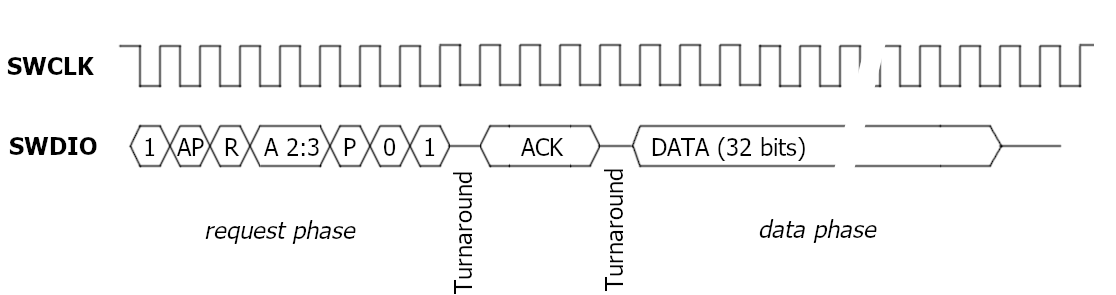
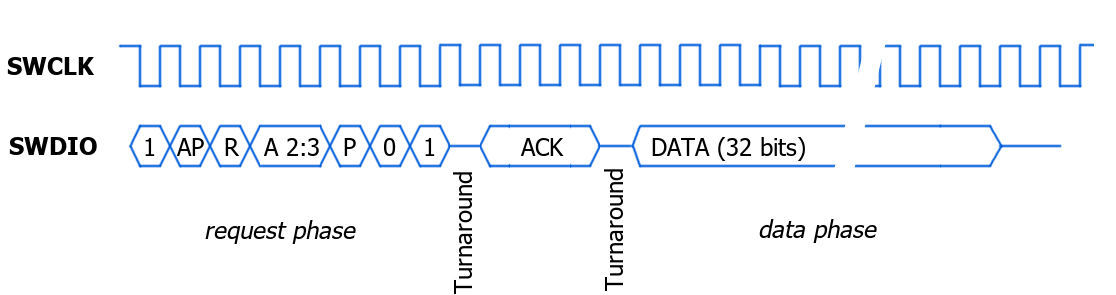
Added missing source files. Updated two pictures for the guide.

diff --git a/source/usb-support.c b/source/usb-support.c
@@ -1,0 +1,141 @@
+/*
+ * Functions for general purpose USB device access in Microsoft Windows, by
+ * dynamically loading & Linking WinUSB or libusbK. For libusbK, the native
+ * API is used, but note that libusbK also provides an implementation of the
+ * WinUSB API.
+ *
+ * Copyright 2020 CompuPhase
+ *
+ * Licensed under the Apache License, Version 2.0 (the "License");
+ * you may not use this file except in compliance with the License.
+ * You may obtain a copy of the License at
+ *
+ *     http://www.apache.org/licenses/LICENSE-2.0
+ *
+ * Unless required by applicable law or agreed to in writing, software
+ * distributed under the License is distributed on an "AS IS" BASIS,
+ * WITHOUT WARRANTIES OR CONDITIONS OF ANY KIND, either express or implied.
+ * See the License for the specific language governing permissions and
+ * limitations under the License.
+ */
+#include <windows.h>
+#include <assert.h>
+#include "usb-support.h"
+
+/*
+ * Part 1: WinUSB
+ */
+
+BOOL __stdcall (*_WinUsb_Initialize)(HANDLE DeviceHandle, USB_INTERFACE_HANDLE *InterfaceHandle) = NULL;
+BOOL __stdcall (*_WinUsb_Free)(USB_INTERFACE_HANDLE InterfaceHandle) = NULL;
+BOOL __stdcall (*_WinUsb_QueryInterfaceSettings)(USB_INTERFACE_HANDLE InterfaceHandle, uint8_t AlternateInterfaceNumber, USB_INTERFACE_DESCRIPTOR *UsbAltInterfaceDescriptor) = NULL;
+BOOL __stdcall (*_WinUsb_QueryPipe)(USB_INTERFACE_HANDLE InterfaceHandle, uint8_t AlternateInterfaceNumber, uint8_t PipeIndex, USB_PIPE_INFORMATION *PipeInformation) = NULL;
+BOOL __stdcall (*_WinUsb_ReadPipe)(USB_INTERFACE_HANDLE InterfaceHandle, uint8_t PipeID, uint8_t *Buffer, uint32_t BufferLength, uint32_t *LengthTransferred, LPOVERLAPPED Overlapped) = NULL;
+
+static HMODULE hinstWinUSB = NULL;
+
+BOOL WinUsb_Load(void)
+{
+  if (hinstWinUSB != NULL)
+    return TRUE;  /* double initialization */
+
+  hinstWinUSB = LoadLibrary("winusb.dll");
+  if (hinstWinUSB == NULL)
+    return FALSE;
+
+  _WinUsb_Initialize = GetProcAddress(hinstWinUSB, "WinUsb_Initialize");
+  _WinUsb_Free = GetProcAddress(hinstWinUSB, "WinUsb_Free");
+  _WinUsb_QueryInterfaceSettings = GetProcAddress(hinstWinUSB, "WinUsb_QueryInterfaceSettings");
+  _WinUsb_QueryPipe = GetProcAddress(hinstWinUSB, "WinUsb_QueryPipe");
+  _WinUsb_ReadPipe = GetProcAddress(hinstWinUSB, "WinUsb_ReadPipe");
+  assert(_WinUsb_Initialize != NULL && _WinUsb_Free != NULL && _WinUsb_QueryInterfaceSettings != NULL
+         && _WinUsb_QueryPipe != NULL && _WinUsb_ReadPipe != NULL);
+  return TRUE;
+}
+
+BOOL WinUsb_Unload(void)
+{
+  if (hinstWinUSB == NULL)
+    return FALSE;
+  FreeLibrary(hinstWinUSB);
+  hinstWinUSB = NULL;
+  _WinUsb_Initialize = NULL;
+  _WinUsb_Free = NULL;
+  _WinUsb_QueryInterfaceSettings = NULL;
+  _WinUsb_QueryPipe = NULL;
+  _WinUsb_ReadPipe = NULL;
+
+  return TRUE;
+}
+
+BOOL WinUsb_IsActive(void)
+{
+  return hinstWinUSB != NULL;
+}
+
+
+/*
+ * Part 2: libusbK
+ */
+
+BOOL __stdcall (*_UsbK_Init)(USB_INTERFACE_HANDLE* InterfaceHandle, const KLST_DEVINFO *DevInfo) = NULL;
+BOOL __stdcall (*_UsbK_Free)(USB_INTERFACE_HANDLE InterfaceHandle) = NULL;
+BOOL __stdcall (*_UsbK_QueryInterfaceSettings)(USB_INTERFACE_HANDLE InterfaceHandle, uint8_t AlternateInterfaceNumber, USB_INTERFACE_DESCRIPTOR *UsbAltInterfaceDescriptor) = NULL;
+BOOL __stdcall (*_UsbK_QueryPipe)(USB_INTERFACE_HANDLE InterfaceHandle, uint8_t AlternateInterfaceNumber, uint8_t PipeIndex, USB_PIPE_INFORMATION *PipeInformation) = NULL;
+BOOL __stdcall (*_UsbK_ReadPipe)(USB_INTERFACE_HANDLE InterfaceHandle, uint8_t PipeID, uint8_t *Buffer, uint32_t BufferLength, uint32_t *LengthTransferred, LPOVERLAPPED Overlapped) = NULL;
+
+BOOL __stdcall (*_LstK_Init)(KLST_DEVINFO **DeviceList, int Flags) = NULL;
+BOOL __stdcall (*_LstK_Free)(KLST_DEVINFO *DeviceList) = NULL;
+BOOL __stdcall (*_LstK_Count)(const KLST_DEVINFO *DeviceList, uint32_t *Count) = NULL;
+BOOL __stdcall (*_LstK_Enumerate)(const KLST_DEVINFO *DeviceList, KLST_ENUM_DEVINFO_CB *EnumDevListCB, void *Context) = NULL;
+
+static HMODULE hinstUsbK = NULL;
+
+BOOL UsbK_Load(void)
+{
+  if (hinstUsbK != NULL)
+    return TRUE;  /* double initialization */
+
+  hinstUsbK = LoadLibrary("libusbK.dll");
+  if (hinstUsbK == NULL)
+    return FALSE;
+
+  _UsbK_Init = GetProcAddress(hinstUsbK, "UsbK_Init");
+  _UsbK_Free = GetProcAddress(hinstUsbK, "UsbK_Free");
+  _UsbK_QueryInterfaceSettings = GetProcAddress(hinstUsbK, "UsbK_QueryInterfaceSettings");
+  _UsbK_QueryPipe = GetProcAddress(hinstUsbK, "UsbK_QueryPipe");
+  _UsbK_ReadPipe = GetProcAddress(hinstUsbK, "UsbK_ReadPipe");
+  _LstK_Init = GetProcAddress(hinstUsbK, "LstK_Init");
+  _LstK_Free = GetProcAddress(hinstUsbK, "LstK_Free");
+  _LstK_Count = GetProcAddress(hinstUsbK, "LstK_Count");
+  _LstK_Enumerate = GetProcAddress(hinstUsbK, "LstK_Enumerate");
+  assert(_UsbK_Init != NULL && _UsbK_Free != NULL && _UsbK_QueryInterfaceSettings != NULL
+         && _UsbK_QueryPipe != NULL && _UsbK_ReadPipe != NULL && _LstK_Init != NULL
+         && _LstK_Free != NULL  && _LstK_Count != NULL  && _LstK_Enumerate != NULL);
+  return TRUE;
+}
+
+BOOL UsbK_Unload(void)
+{
+  if (hinstUsbK == NULL)
+    return FALSE;
+  FreeLibrary(hinstUsbK);
+  hinstUsbK = NULL;
+  _UsbK_Init = NULL;
+  _UsbK_Free = NULL;
+  _UsbK_QueryInterfaceSettings = NULL;
+  _UsbK_QueryPipe = NULL;
+  _UsbK_ReadPipe = NULL;
+  _LstK_Init = NULL;
+  _LstK_Free = NULL;
+  _LstK_Count = NULL;
+  _LstK_Enumerate = NULL;
+
+  return TRUE;
+}
+
+BOOL UsbK_IsActive(void)
+{
+  return hinstUsbK != NULL;
+}
+

diff --git a/source/usb-support.h b/source/usb-support.h
@@ -1,0 +1,132 @@
+/*
+ * Functions for general purpose USB device access in Microsoft Windows, by
+ * dynamically loading & Linking WinUSB.
+ *
+ * Copyright 2020 CompuPhase
+ *
+ * Licensed under the Apache License, Version 2.0 (the "License");
+ * you may not use this file except in compliance with the License.
+ * You may obtain a copy of the License at
+ *
+ *     http://www.apache.org/licenses/LICENSE-2.0
+ *
+ * Unless required by applicable law or agreed to in writing, software
+ * distributed under the License is distributed on an "AS IS" BASIS,
+ * WITHOUT WARRANTIES OR CONDITIONS OF ANY KIND, either express or implied.
+ * See the License for the specific language governing permissions and
+ * limitations under the License.
+ */
+#ifndef _USB_SUPPORT_H
+#define _USB_SUPPORT_H
+
+#include <windows.h>
+#include <stdint.h>
+
+#if defined __cplusplus
+  extern "C" {
+#endif
+
+/*
+ * General types (for both WinUSB and libusbK)
+ */
+typedef enum {
+  PIPETYPE_CONTROL,
+  PIPETYPE_ISOCHRONOUS,
+  PIPETYPE_BULK,
+  PIPETYPE_INTERRUPT
+} USB_PIPE_TYPE;
+
+typedef struct tagUSB_INTERFACE_DESCRIPTOR {
+  uint8_t bLength;              /**< length of the descriptor in bytes */
+  uint8_t bDescriptorType;
+  uint8_t bInterfaceNumber;
+  uint8_t bAlternateSetting;
+  uint8_t bNumEndpoints;        /**< number of endpoints excluding the control endpoint */
+  uint8_t bInterfaceClass;      /**< USB-IF class code for this interface */
+  uint8_t bInterfaceSubClass;   /**< USB-IF subclass code for this interface*/
+  uint8_t bInterfaceProtocol;   /**< USB-IF protocol code for this interface */
+  uint8_t iInterface;           /**< index of the string descriptor for this interface */
+} USB_INTERFACE_DESCRIPTOR;
+
+typedef struct tagUSB_PIPE_INFORMATION {
+  uint32_t PipeType;            /**< one of the values of the USB_PIPE_TYPE enumeration */
+  uint8_t  PipeId;
+  uint16_t MaximumPacketSize;   /**< in bytes */
+  uint8_t  Interval;            /**< in milliseconds */
+} USB_PIPE_INFORMATION;
+
+typedef void* USB_INTERFACE_HANDLE;
+
+
+/*
+ * Part 1: WinUSB
+ * minimal subset of WinUSB types & functions
+ */
+
+extern BOOL (__stdcall *_WinUsb_Initialize)(HANDLE DeviceHandle, USB_INTERFACE_HANDLE *InterfaceHandle);
+extern BOOL (__stdcall *_WinUsb_Free)(USB_INTERFACE_HANDLE InterfaceHandle);
+extern BOOL (__stdcall *_WinUsb_QueryInterfaceSettings)(USB_INTERFACE_HANDLE InterfaceHandle, uint8_t AlternateInterfaceNumber, USB_INTERFACE_DESCRIPTOR *UsbAltInterfaceDescriptor);
+extern BOOL (__stdcall *_WinUsb_QueryPipe)(USB_INTERFACE_HANDLE InterfaceHandle, uint8_t AlternateInterfaceNumber, uint8_t PipeIndex, USB_PIPE_INFORMATION *PipeInformation);
+extern BOOL (__stdcall *_WinUsb_ReadPipe)(USB_INTERFACE_HANDLE InterfaceHandle, uint8_t PipeID, uint8_t *Buffer, uint32_t BufferLength, uint32_t *LengthTransferred, LPOVERLAPPED Overlapped);
+
+/* WinUSB loading & unloading functions */
+BOOL WinUsb_Load(void);
+BOOL WinUsb_Unload(void);
+BOOL WinUsb_IsActive(void);
+
+
+/*
+ * Part 2: libusbK
+ */
+
+#define KLST_STRING_MAX_LEN 256
+
+typedef struct tagKLST_DEVINFO {
+  int Vid;
+  int Pid;
+  int MI;                               /**< interface number, set to -1 for non-composite devices */
+  char InstanceID[KLST_STRING_MAX_LEN]; /**< uniquely identifies the USB device */
+	int DriverID;
+	char DeviceInterfaceGUID[KLST_STRING_MAX_LEN];
+	char DeviceID[KLST_STRING_MAX_LEN];
+	char ClassGUID[KLST_STRING_MAX_LEN];
+	char Mfg[KLST_STRING_MAX_LEN];        /**< Manufacturer name */
+	char DeviceDesc[KLST_STRING_MAX_LEN];
+	char Service[KLST_STRING_MAX_LEN];    /**< driver/service name */
+	char SymbolicLink[KLST_STRING_MAX_LEN];
+	char DevicePath[KLST_STRING_MAX_LEN]; /**< Windows virtual path, as used in CreateFile() */
+	int LUsb0FilterIndex;                 /**< libusb-win32 filter index id */
+	BOOL Connected;
+	long SyncFlags;                       /**< Synchronization flags (internal use only) */
+	int BusNumber;
+	INT DeviceAddress;
+	char SerialNumber[KLST_STRING_MAX_LEN];
+} KLST_DEVINFO;
+
+typedef void* KUSB_HANDLE;
+typedef void* KLST_HANDLE;
+
+typedef BOOL __stdcall KLST_ENUM_DEVINFO_CB(KLST_HANDLE DeviceList, KLST_DEVINFO *DeviceInfo, PVOID Context);
+
+extern BOOL (__stdcall *_UsbK_Init)(USB_INTERFACE_HANDLE* InterfaceHandle, const KLST_DEVINFO *DevInfo);
+extern BOOL (__stdcall *_UsbK_Free)(USB_INTERFACE_HANDLE InterfaceHandle);
+extern BOOL (__stdcall *_UsbK_QueryInterfaceSettings)(USB_INTERFACE_HANDLE InterfaceHandle, uint8_t AlternateInterfaceNumber, USB_INTERFACE_DESCRIPTOR *UsbAltInterfaceDescriptor);
+extern BOOL (__stdcall *_UsbK_QueryPipe)(USB_INTERFACE_HANDLE InterfaceHandle, uint8_t AlternateInterfaceNumber, uint8_t PipeIndex, USB_PIPE_INFORMATION *PipeInformation);
+extern BOOL (__stdcall *_UsbK_ReadPipe)(USB_INTERFACE_HANDLE InterfaceHandle, uint8_t PipeID, uint8_t *Buffer, uint32_t BufferLength, uint32_t *LengthTransferred, LPOVERLAPPED Overlapped);
+
+extern BOOL (__stdcall *_LstK_Init)(KLST_DEVINFO **DeviceList, int Flags);
+extern BOOL (__stdcall *_LstK_Free)(KLST_DEVINFO *DeviceList);
+extern BOOL (__stdcall *_LstK_Count)(const KLST_DEVINFO *DeviceList, uint32_t *Count);
+extern BOOL (__stdcall *_LstK_Enumerate)(const KLST_DEVINFO *DeviceList, KLST_ENUM_DEVINFO_CB *EnumDevListCB, void *Context);
+
+/* WinUSB loading, unloading & compatibility functions */
+BOOL UsbK_Load(void);
+BOOL UsbK_Unload(void);
+BOOL UsbK_IsActive(void);
+
+#if defined __cplusplus
+  }
+#endif
+
+#endif /* _USB_SUPPORT_H */
+
